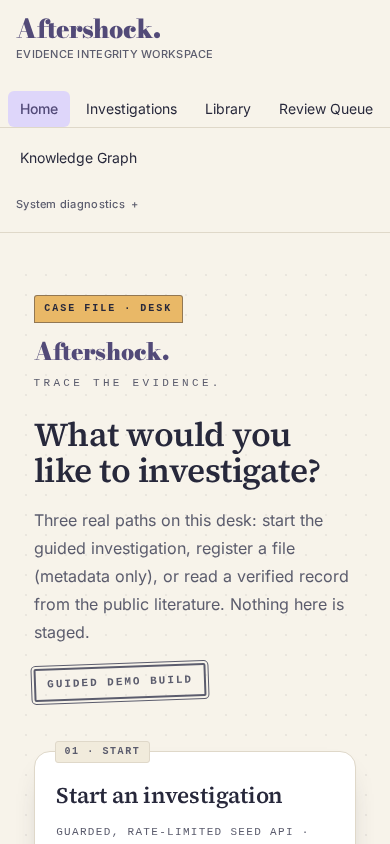
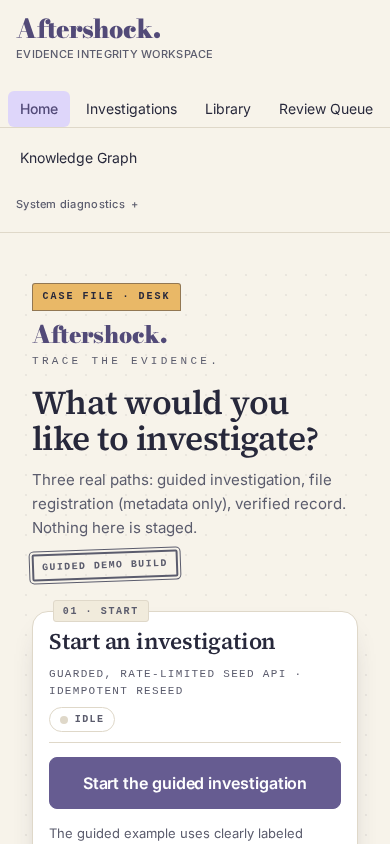
qa-fix(v4): compact mobile hero fold, restore 02 intake numbering, honest screenshot set

Changed region(s): [[0.0615, 0.3081, 0.9231, 1.0], [0.0615, 0.8934, 0.0923, 1.0]]

diff --git a/src/pages/LandingPage.tsx b/src/pages/LandingPage.tsx
@@ -143,10 +143,14 @@ export default function LandingPage() {
           <h1 id="hero-heading" className="v4-hero-title">
             What would you like to investigate?
           </h1>
-          <p className="v4-hero-lede">
+          <p className="v4-hero-lede v4-hero-lede--full">
             Three real paths on this desk: start the guided investigation,
             register a file (metadata only), or read a verified record from the
             public literature. Nothing here is staged.
+          </p>
+          <p className="v4-hero-lede v4-hero-lede--short">
+            Three real paths: guided investigation, file registration (metadata
+            only), verified record. Nothing here is staged.
           </p>
           <p className="v4-stamp">Guided demo build</p>
         </section>
@@ -184,19 +188,6 @@ export default function LandingPage() {
               className="v4-cta"
             >
               {seeding ? 'Contacting demo API…' : 'Start the guided investigation'}
-            </button>
-            {/* Secondary path: real document intake, never a second indigo
-                destination — it only discloses the untouched import flow. */}
-            <button
-              type="button"
-              onClick={() => setShowDocumentArea((open) => !open)}
-              aria-expanded={showDocumentArea}
-              aria-controls="document-area"
-              data-testid="choose-document-toggle"
-              className="v4-toggle"
-            >
-              <span className="v4-toggle-lead">Have a document?</span>{' '}
-              <span>Register a file (metadata only)</span>
             </button>
           </div>
 
@@ -276,41 +267,57 @@ export default function LandingPage() {
           </div>
         </section>
 
-        {/* 02 · INTAKE — collapsed by default. Expanding reveals the real
-            import flow (ImportPanel rendered untouched: client-side guards →
-            POST /import-document → verbatim server disclosure → Analyze only
-            for the demo manuscript) plus the still-unbuilt Bibliography /
-            Single DOI affordances, honest and disabled. */}
-        {showDocumentArea && (
-          <section
-            id="document-area"
-            aria-labelledby="intake-heading"
-            className="v4-sheet"
-          >
+        {/* 02 · INTAKE — always present so numbering stays 01 → 02 → 03 →
+            04 even when collapsed. Collapsed: a thin header row carrying the
+            tab label and the existing intake toggle. Expanded: the real,
+            untouched <ImportPanel/> plus the honestly disabled Bibliography /
+            Single DOI affordances. */}
+        <section
+          id="document-area"
+          aria-labelledby="intake-heading"
+          className={`v4-sheet${showDocumentArea ? '' : ' v4-sheet--collapsed'}`}
+        >
+          <div className="v4-intake-head">
             <span className="v4-tab-label" aria-hidden="true">
               02 · Intake
             </span>
-            <h2 id="intake-heading" className="v4-h2">
-              Intake — register a file (metadata only)
-            </h2>
+            <button
+              type="button"
+              onClick={() => setShowDocumentArea((open) => !open)}
+              aria-expanded={showDocumentArea}
+              aria-controls="document-area"
+              data-testid="choose-document-toggle"
+              className="v4-toggle v4-toggle--intake"
+            >
+              <span className="v4-toggle-lead">Have a document?</span>{' '}
+              <span>Register a file (metadata only)</span>
+            </button>
+          </div>
 
-            <ImportPanel />
+          {showDocumentArea && (
+            <>
+              <h2 id="intake-heading" className="v4-h2">
+                Intake — register a file (metadata only)
+              </h2>
 
-            <div className="v4-disabled-row">
-              <button type="button" disabled className="v4-disabled-chip">
-                Bibliography
-              </button>
-              <button type="button" disabled className="v4-disabled-chip">
-                Single DOI
-              </button>
-              <span>
-                Bibliography and DOI imports arrive with the import flow — they
-                cannot detect passage-level claim dependencies; original research
-                text is needed for that.
-              </span>
-            </div>
-          </section>
-        )}
+              <ImportPanel />
+
+              <div className="v4-disabled-row">
+                <button type="button" disabled className="v4-disabled-chip">
+                  Bibliography
+                </button>
+                <button type="button" disabled className="v4-disabled-chip">
+                  Single DOI
+                </button>
+                <span>
+                  Bibliography and DOI imports arrive with the import flow — they
+                  cannot detect passage-level claim dependencies; original research
+                  text is needed for that.
+                </span>
+              </div>
+            </>
+          )}
+        </section>
 
         {/* 03 · RECORDS — one real, publicly verified record, clearly
             distinct from the fictional guided-demo manuscript, followed by

diff --git a/src/pages/landing-v4.css b/src/pages/landing-v4.css
@@ -145,6 +145,22 @@
   color: var(--ink-muted);
 }
 
+/* Responsive preamble: a one-line summary on small screens, the full
+   three-line preamble from md+ upward. No honest wording is removed — it is
+   repositioned by breakpoint. */
+.landing-v4 .v4-hero-lede--short {
+  display: none;
+}
+
+@media (max-width: 640px) {
+  .landing-v4 .v4-hero-lede--full {
+    display: none;
+  }
+  .landing-v4 .v4-hero-lede--short {
+    display: block;
+  }
+}
+
 /* Rubber-stamp scope label: double outline, no fill, slight rotation.
    Ink-muted keeps AA (5.5:1 on paper) at 11px bold. */
 .landing-v4 .v4-stamp {
@@ -177,6 +193,29 @@
 }
 
 /* ------------------------------------------------------------- sheets -- */
+
+/* Collapsed intake sheet: a thin row that keeps 02 · INTAKE present in
+   the flow so numbering stays 01 → 02 → 03 → 04 even when closed. */
+.landing-v4 .v4-sheet--collapsed {
+  padding: 0.7rem 1.35rem;
+  margin-top: 1.5rem;
+}
+
+.landing-v4 .v4-intake-head {
+  display: flex;
+  flex-wrap: wrap;
+  align-items: center;
+  justify-content: space-between;
+  gap: 0.5rem 1rem;
+  position: relative;
+}
+
+.landing-v4 .v4-toggle--intake {
+  width: auto;
+  padding: 0.45rem 0.9rem;
+  font-size: 0.875rem;
+  text-align: center;
+}
 
 /* File-divider label sitting on a sheet's top rule. Quiet on every sheet —
    amber is spent only on the hero case tab. */
@@ -591,5 +630,68 @@
   .landing-v4 .v4-cta:active:not(:disabled),
   .landing-v4 .v4-index-link:hover {
     transform: none;
+  }
+}
+
+/* ------------------------------------------------- mobile fold (≤640px) -- */
+@media (max-width: 640px) {
+  .landing-v4 {
+    padding: 1rem 1rem 2rem;
+  }
+  .landing-v4 .v4-case-tab {
+    margin-bottom: 0.75rem;
+  }
+  .landing-v4 .v4-brand {
+    font-size: 1.5rem;
+  }
+  .landing-v4 .v4-tagline {
+    margin-top: 0.4rem;
+  }
+  .landing-v4 .v4-hero-title {
+    margin-top: 0.9rem;
+  }
+  .landing-v4 .v4-hero-lede {
+    margin-top: 0.7rem;
+    font-size: 0.9375rem;
+    line-height: 1.6;
+  }
+  /* Shrink + tighten the GUIDED DEMO BUILD stamp on mobile. */
+  .landing-v4 .v4-stamp {
+    margin-top: 0.75rem;
+    padding: 0.25rem 0.5rem;
+    font-size: 0.625rem;
+    letter-spacing: 0.14em;
+  }
+  .landing-v4 .v4-card {
+    margin-top: 1.25rem;
+    padding: 1.1rem 1rem 1rem;
+  }
+  .landing-v4 .v4-card-head {
+    margin-top: 0.7rem;
+    padding-bottom: 0.6rem;
+  }
+  .landing-v4 .v4-actions {
+    margin-top: 0.9rem;
+    gap: 0.5rem;
+  }
+  .landing-v4 .v4-cta {
+    padding: 0.8rem 1.25rem;
+    font-size: 1rem;
+  }
+  .landing-v4 .v4-integrity {
+    margin-top: 0.9rem;
+    font-size: 0.8125rem;
+    line-height: 1.6;
+  }
+  .landing-v4 .v4-sheet {
+    margin-top: 1.25rem;
+    padding: 1.2rem 1rem 1rem;
+  }
+  .landing-v4 .v4-sheet--collapsed {
+    margin-top: 1.25rem;
+    padding: 0.6rem 1rem;
+  }
+  .landing-v4 .v4-hero {
+    padding-bottom: 0.75rem;
   }
 }

diff --git a/docs/design/home-experiments/2026-10-20/v4-thesis.md b/docs/design/home-experiments/2026-10-20/v4-thesis.md
@@ -85,6 +85,7 @@ one red is used (the `FLAGGED — NEEDS HUMAN REVIEW` legend stamp).
 - **Motion:** none on load; a 150 ms hover lift on the CTA and a 150 ms
   translate on index links only, both removed under
   `prefers-reduced-motion`.
+  prefers-reduced-motion: hover transitions suppressed by shell rule; static-at-rest equals the initial frame (no separate meaningful capture).
 
 ## 4. Composition
 
